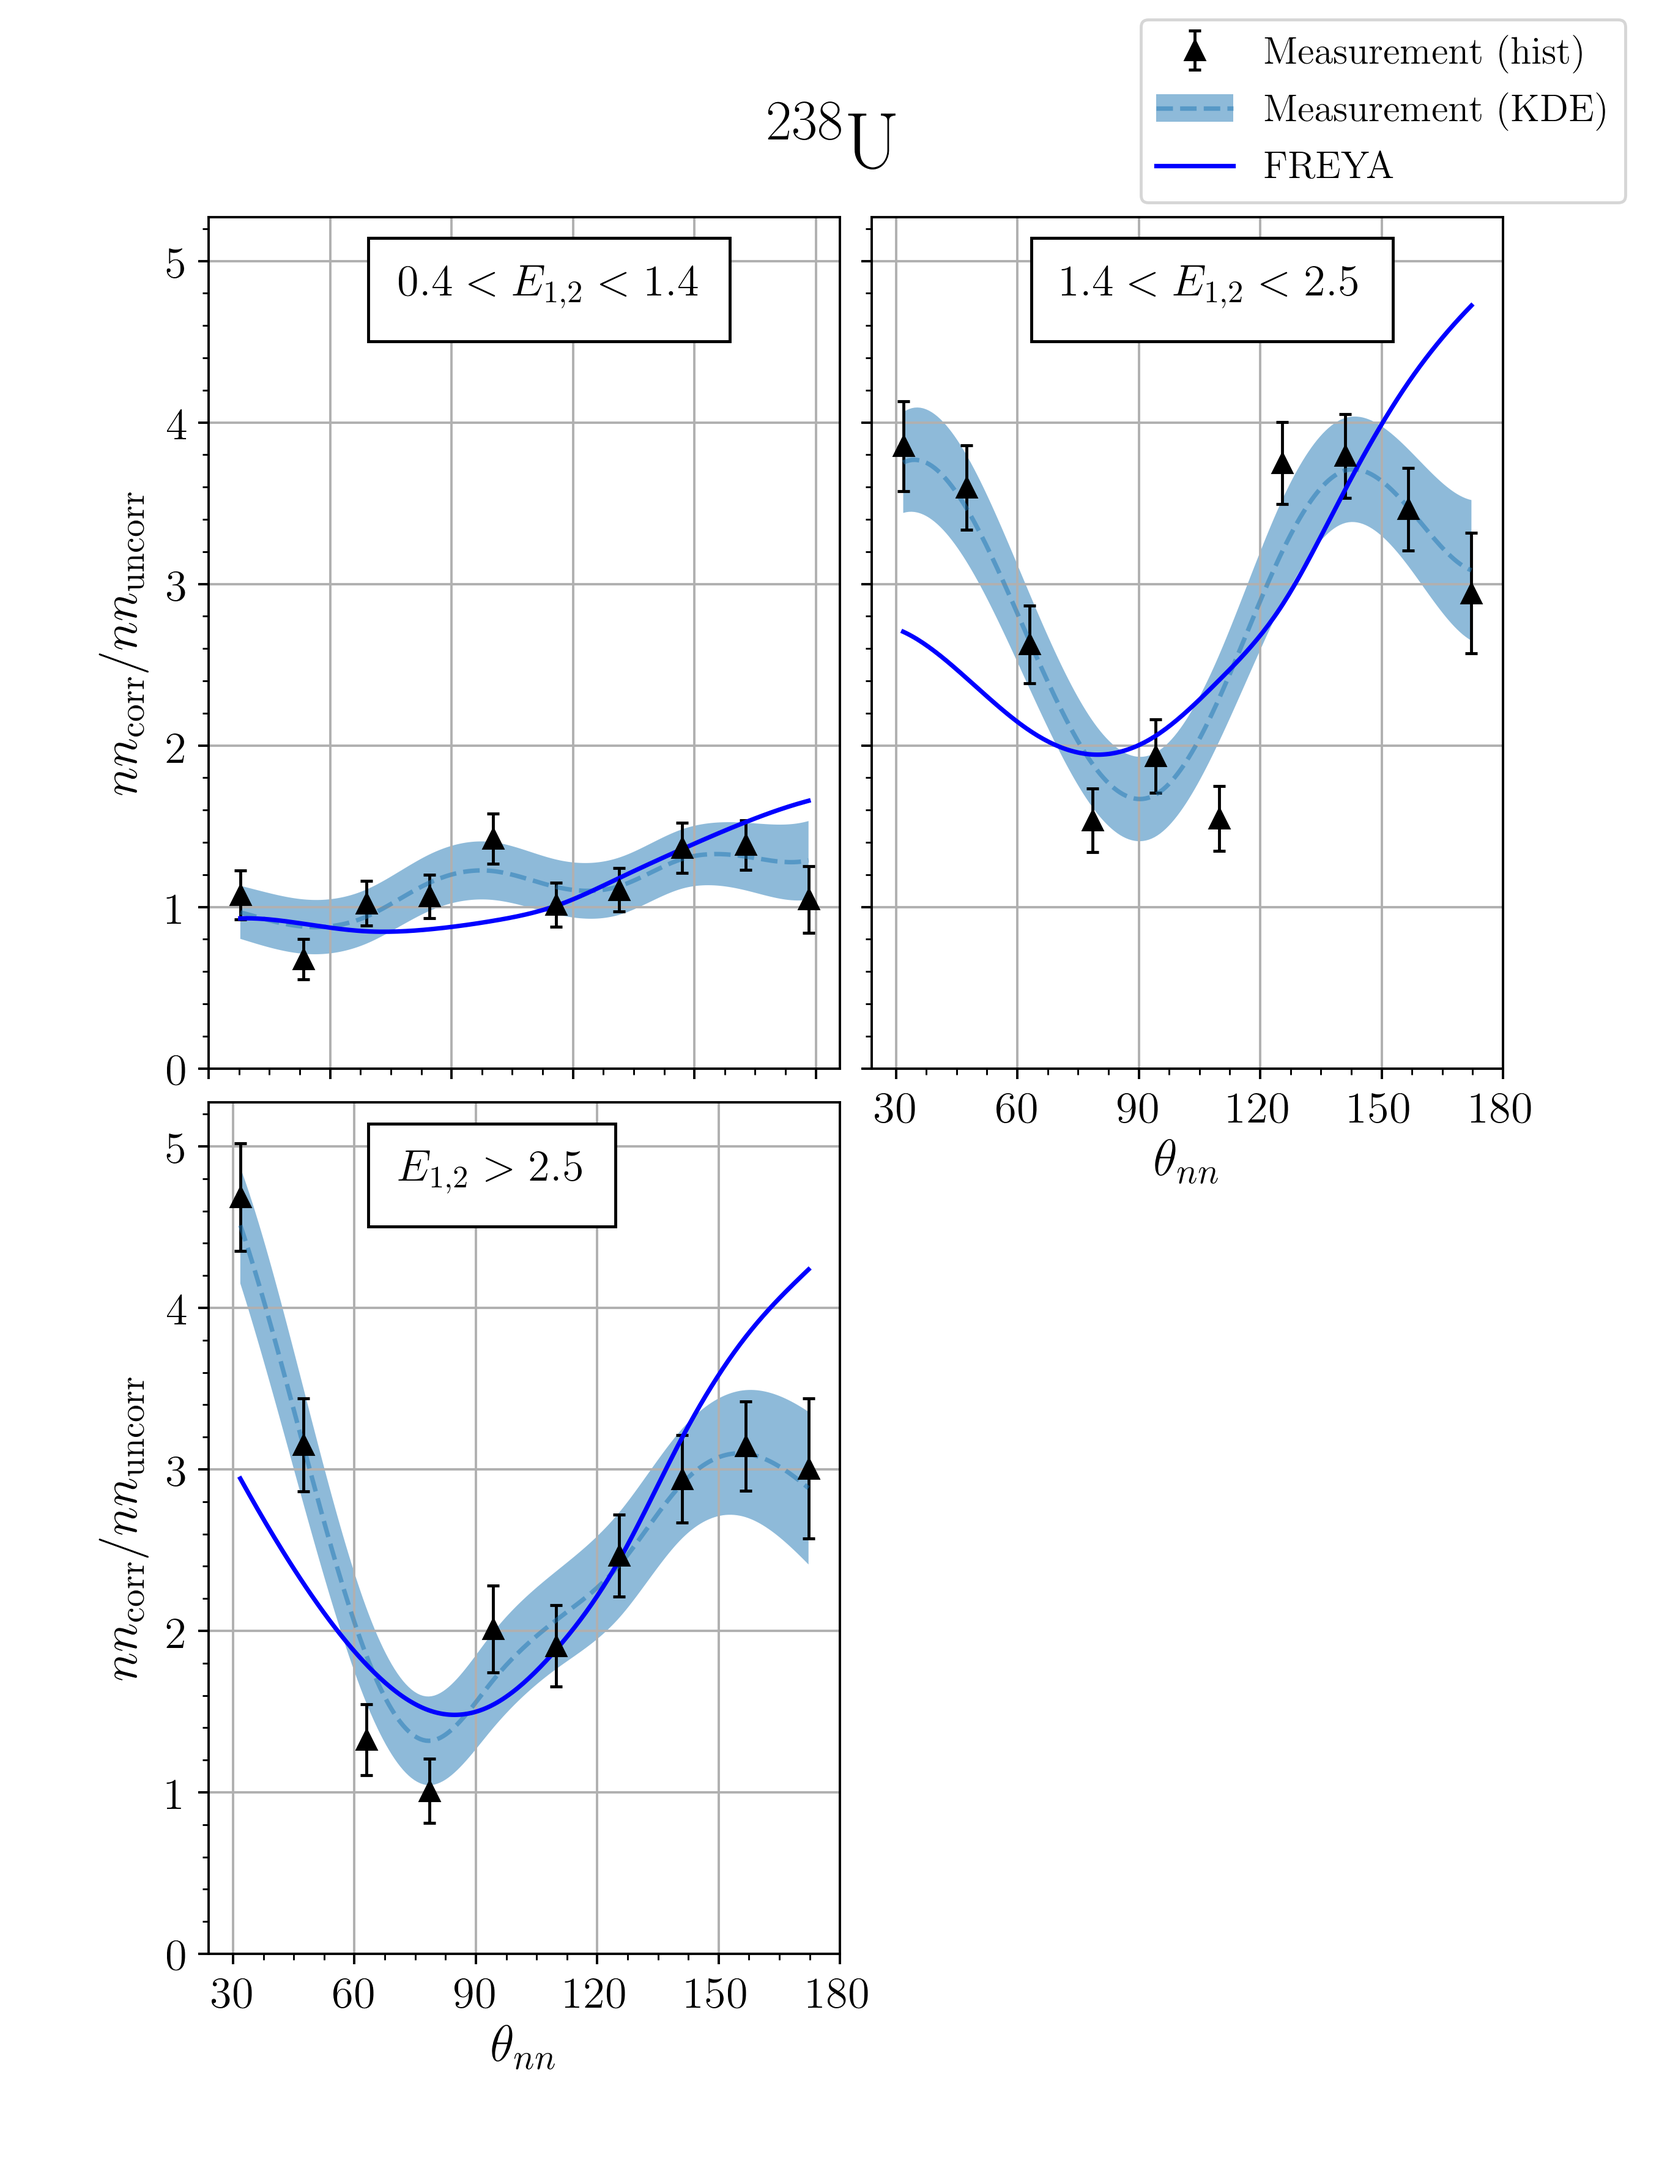
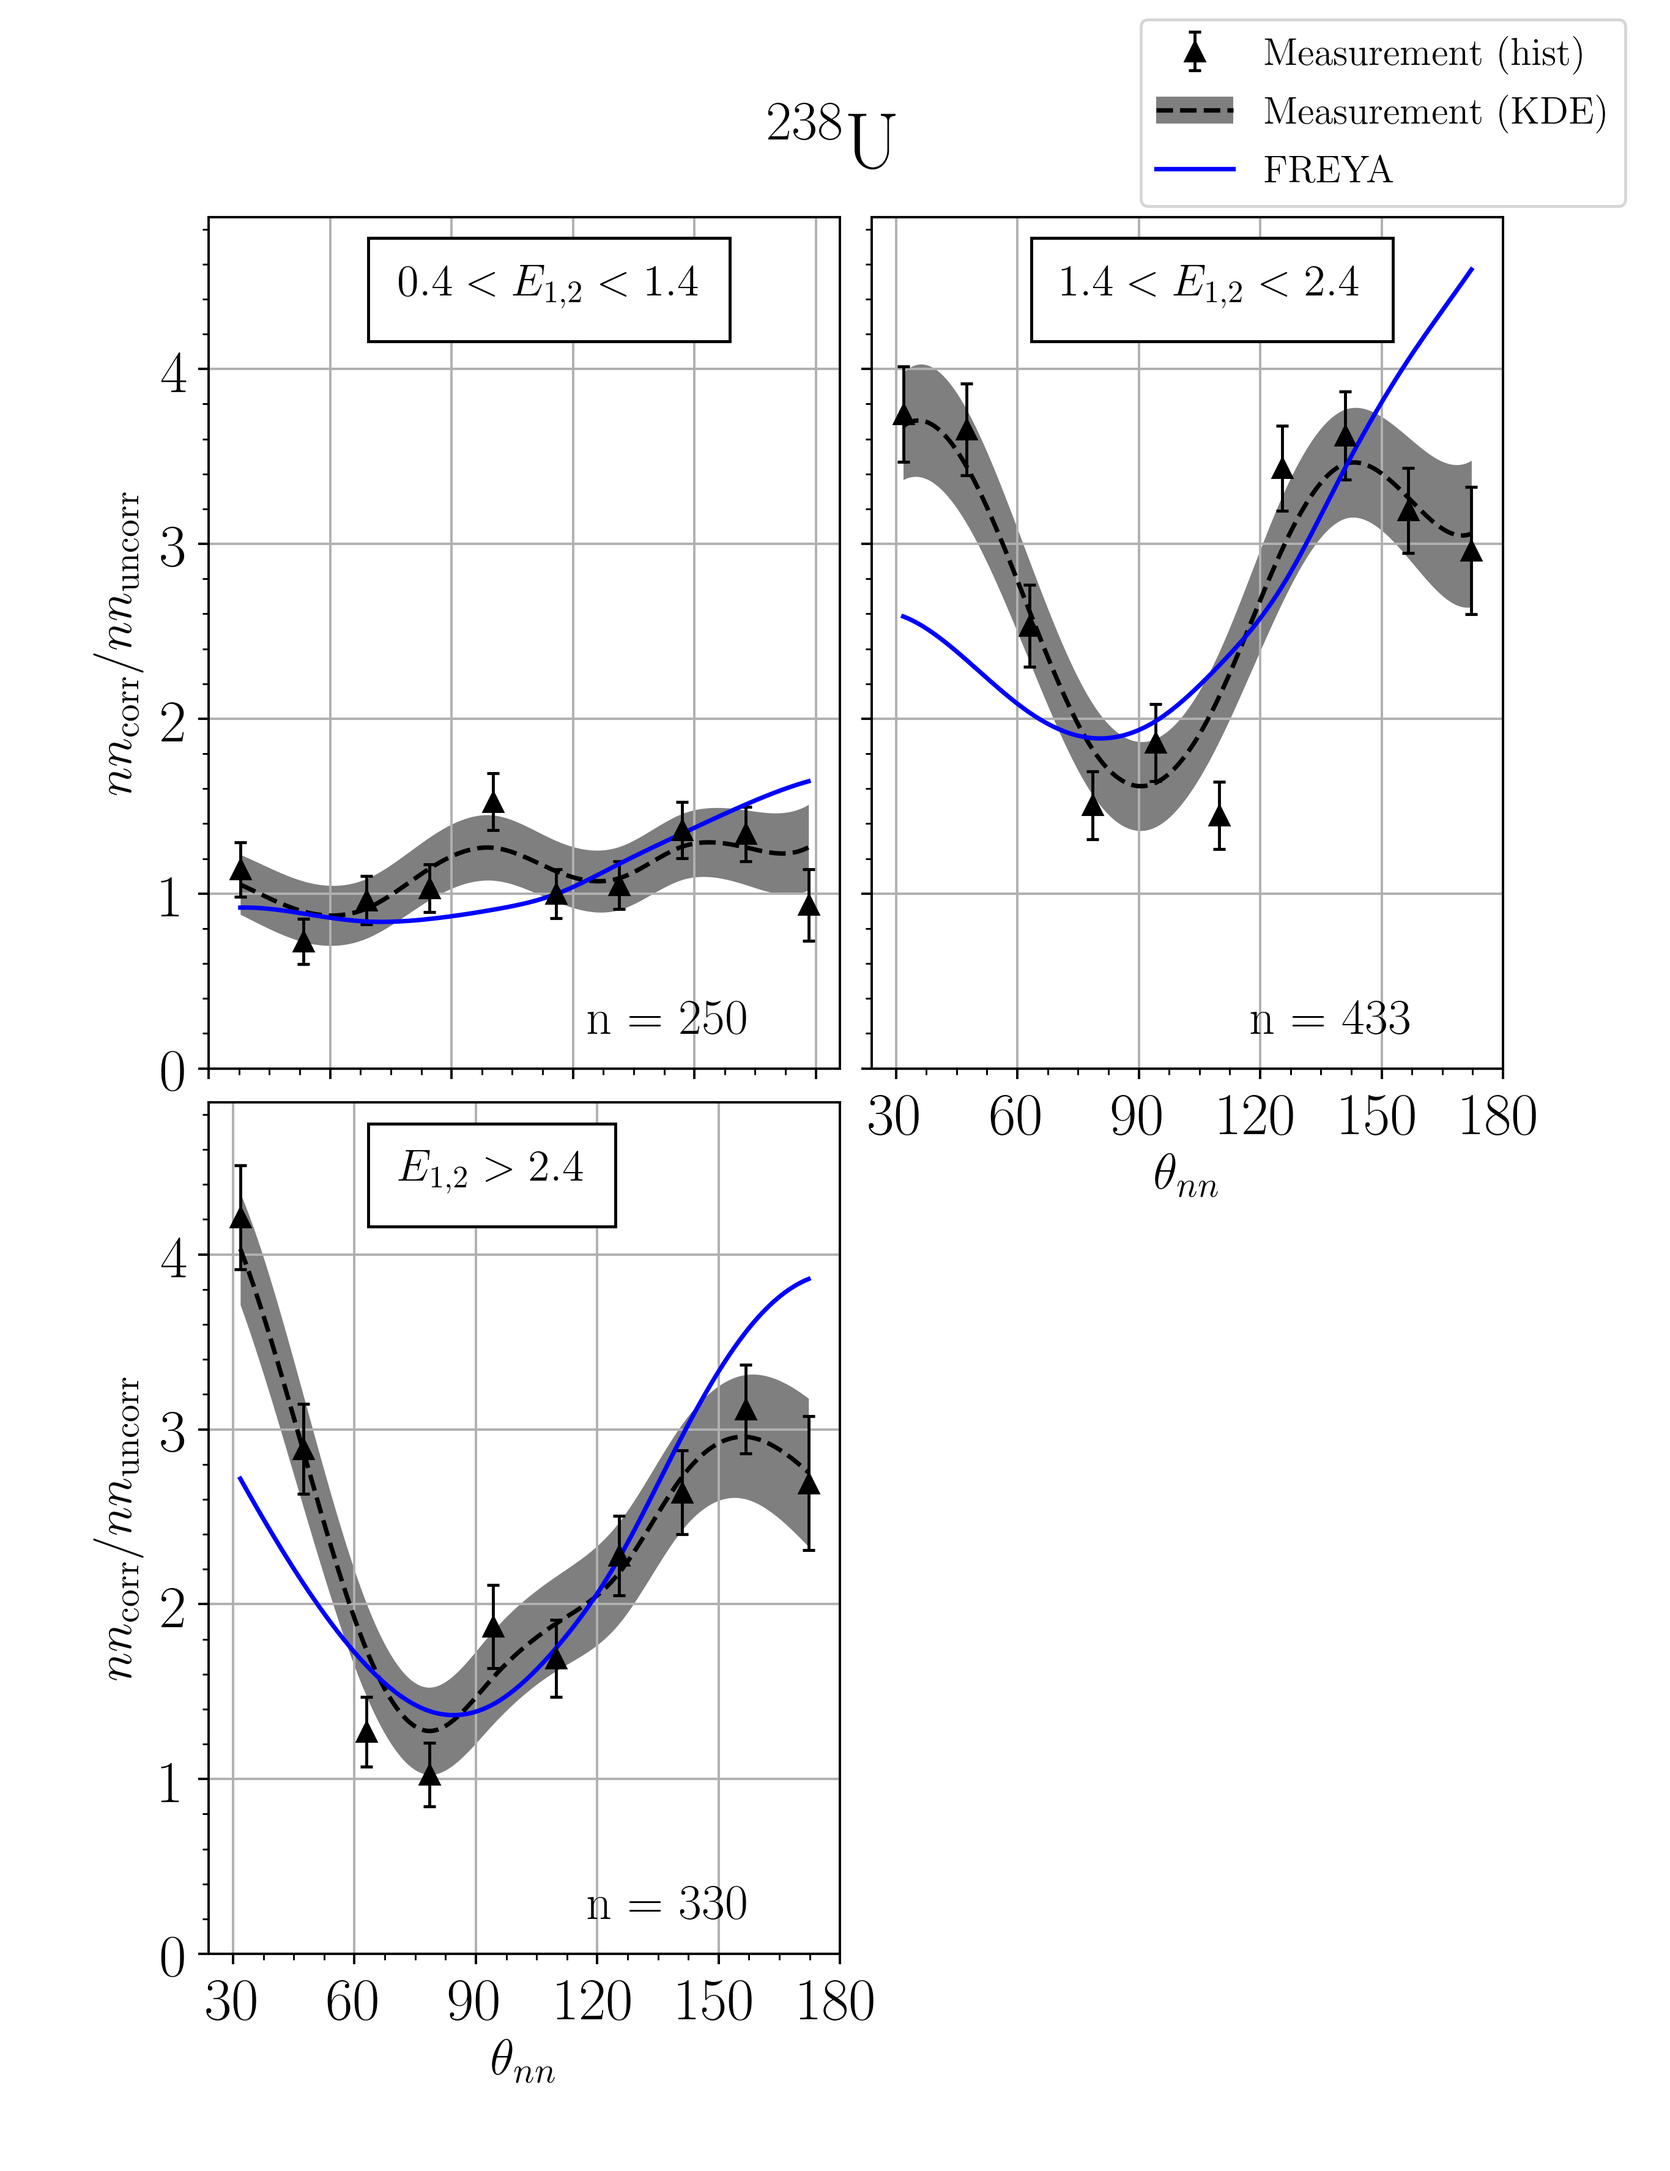
ok

diff --git a/Analysis/FinalResultFreya.py b/Analysis/FinalResultFreya.py
@@ -7,7 +7,7 @@ import mytools2 as mt2
 import mytools as mt
 import matplotlib as mpl
 import os
-mpl.use('TkAgg')
+# mpl.use('TkAgg')
 from scipy.interpolate import spline
 
 font = {'family':'DejaVu Sans',
@@ -26,18 +26,18 @@ import matplotlib.pyplot as plt
 """
 # ====================
 apply_correction = True
-cut_type =0
-max_erg = 8
+cut_type = 0
+max_erg = 10
 all_on_one_axis = False
 _cheat_ = True
 plot_FREYA = True
-target = "DU"
+target = "Cf252"
 draw_w_o_correction = True
 save_figure = True
 KDE = 1
 min_bin = 24
 if target == "DU":
-    binwidths = {0: 15,
+    binwidths = {0: 18,
                  1: 15,
                  2: 18,
                  3: 15}[cut_type]
@@ -90,11 +90,12 @@ def get_cut(eneries, DP_coinc=False):
         return mt.cut_rangeAND([E1,E2],"0.5*({0}erg[0] + {0}erg[1])".format(_s_))
 
     elif cut_type == 0:
-        assert isinstance(eneries, (float, int))
+        assert isinstance(eneries, (float, int)), eneries
+        eneries = round(eneries, 4)
         return "{1}erg[0]>{0} && {1}erg[1]>{0}".format(eneries,_s_)
 
     elif cut_type == 2:
-        E1, E2 = tuple(eneries)
+        E1, E2 = tuple(map(lambda x:round(x,4),eneries))
         return mt.cut_rangeAND([E1, E2], "{0}erg[0]".format(_s_),"{0}erg[1]".format(_s_))
     elif cut_type == 3:
         E = eneries
@@ -150,7 +151,9 @@ def get_histos(target):
                 erg_bins = list(zip(erg_bins[:-1], erg_bins[1:]))
             else:
                 erg_bins = erg_bins[:-1]
+
         else:
+            print erg_bins, "fuck fucmk fuck", n_erg_bins
             erg_bins = [[0.4,10]]
 
     if axs is None:
@@ -174,10 +177,12 @@ def get_histos(target):
         cut_SP = get_cut(energies)
         cut_DP_coinc = get_cut(energies, True)
 
+
         if apply_correction:
-            cut_DP = "(DP_weight)*{cut}".format(cut=cut_SP)
+            cut_DP = "(DP_weight)*({cut})".format(cut=cut_SP)
         else:
             cut_DP = cut_SP
+
 
         histSP = TH1F(min_bin,180,nbinss=nbins)
         histDP = TH1F(min_bin,180,nbinss=nbins)
@@ -248,7 +253,7 @@ def get_histos(target):
             else:
                 title = "${0:.1f} <\overline{{E}} < {1:.1f}$".format(*energies)
         elif cut_type == 0:
-            title = r"$E_{{\mathrm{{thresh}} }}={:.1f}$ MeV".format(energies)
+            title = r"$E_{{1,2}}={:.1f}$ MeV".format(energies)
         elif cut_type == 2:
             if index == len(erg_bins) - 1:
                 title = "$E_{{1,2}}>{0:.1f}$".format(energies[0])
@@ -257,11 +262,14 @@ def get_histos(target):
         elif cut_type == 3:
             title = "$abs(E_{{1}}-E_{{2}})> {0:.1f}$".format(energies)
 
+        n_events = None
         if not is_freya:
             if "252" in target:
-                print("n_events for cut {0} : {1}".format(title, int(n_pulsesSP*n_coinc)))
+                n_events = int(n_pulsesSP*n_coinc)
+                print("n_events for cut {0} : {1}".format(title, n_events))
             else:
-                print("n_events for cut {0} : {1}".format(title, int(n_pulsesSP*(n_coinc-0.5*n_acc))))
+                n_events = int(n_pulsesSP*(n_coinc-0.5*n_acc))
+                print("n_events for cut {0} : {1}".format(title, n_events))
 
             x = histSP.bincenters[0]
             y = histSP.binvalues
@@ -270,26 +278,32 @@ def get_histos(target):
                         linewidth=0, elinewidth=1., capsize=2,
 
                         linestyle="dashed" if is_freya else "solid",
-                        color='black' if not is_freya else "blue",
+                        color='black' ,
                         marker="^" if not is_freya else None) #drawstyle='steps-mid' if not is_freya else "default",
             line_measurement = _line_
             if KDE:
                 x_KDE = np.linspace(histSP_KDE.bincenters[0][0], histSP_KDE.bincenters[0][-1], 200)
                 y_KDE = spline(histSP_KDE.bincenters[0], histSP_KDE.binvalues, x_KDE)
                 erry_KDE = spline(histSP_KDE.bincenters[0], histSP_KDE.binerrors, x_KDE)
-                _line_ = ax.fill_between(x_KDE, y_KDE + erry_KDE, y_KDE - erry_KDE, alpha=0.5, linestyle='-')
-                _line2_ = ax.plot(x_KDE, y_KDE, alpha=0.5, linestyle='--')[0]
+                _line_ = ax.fill_between(x_KDE, y_KDE + erry_KDE, y_KDE - erry_KDE, alpha=0.5, linewidth=0, linestyle='-', color="black")
+                _line2_ = ax.plot(x_KDE, y_KDE, alpha=1, linestyle='--', color="black")[0]
                 line_KDE = (_line_, _line2_)
 
             if cut_type == 3:
                 pos = 0.05, 0.9
             else:
                 pos = (0.3, 0.9)
-            ax.text(pos[0],pos[1], title, transform=ax.transAxes, bbox={'facecolor': 'white', 'alpha': 1, 'pad': 10},
+            ax.text(pos[0], pos[1], title, transform=ax.transAxes, bbox={'facecolor': 'white', 'alpha': 1, 'pad': 10},
                     size=12 if cut_type == 3 else 15)
 
+            ax.text(0.6, 0.04, "n = {}".format(n_events), transform=ax.transAxes, weight="bold")
+                    # , transform=ax.transAxes, bbox={'facecolor': 'white', 'alpha': 1, 'pad': 10},
+                    # size=12 if cut_type == 3 else 15)
+
+
+
         else:
-            x_freya =np.linspace(histSP.bincenters[0][0],histSP.bincenters[0][-1], 200)
+            x_freya = np.linspace(histSP.bincenters[0][0],histSP.bincenters[0][-1], 200)
             y_freya = spline(histSP.bincenters[0], histSP.binvalues, x_freya)
             _line_ = ax.plot(x_freya, y_freya,
                                  linestyle="solid",
@@ -310,7 +324,7 @@ def get_histos(target):
             ax.set_ylabel(r"$nn_{\mathrm{corr}}/nn_{\mathrm{uncorr}}$")
 
         if not all_on_one_axis:
-            ax.tick_params(labelsize=15)
+            ax.tick_params(labelsize=20)
 
         if all_on_one_axis:break # only one axis in this case
 

diff --git a/plots/Official/FinalDUResultPlot.py b/plots/Official/FinalDUResultPlot.py
@@ -24,7 +24,7 @@ mpl.rc('text', usetex=True)
 
 f = open('/Users/jeffreyburggraf/PycharmProjects/TwoNeutronCorrelations/plots/Official/FinalDUResultData.pickle', 'rb')
 
-data_dict = pickle.load(f, encoding='latin1')
+data_dict = pickle.load(f) # encoding='latin1')
 
 def Legendre(x, p0, p1, p2):
     ps = [p0,p1,p2]
@@ -221,8 +221,8 @@ if combine:
 # plt.xlabel('$\overline{E}$')
 # plt.ylabel('counts')
 # plt.legend()
-if not combine:
-    mpl.rc("savefig", dpi=400)
-    fig_sub.savefig('/Users/jeffreyburggraf/PycharmProjects/2nCorrPhysRev/FinalResult(separate).png', transparent=True)
+# if not combine:
+#     mpl.rc("savefig", dpi=400)
+#     fig_sub.savefig('/Users/jeffreyburggraf/PycharmProjects/2nCorrPhysRev/FinalResult(separate).png', transparent=True)
 
 plt.show()

diff --git a/Analysis/DetErgEff/Analysis(pos).py b/Analysis/DetErgEff/Analysis(pos).py
@@ -59,7 +59,6 @@ for det in dets:
     means.append(np.mean(hist.binvalues))
     histos.append(hist)
 
-
     if _max is None:
         _max = max(hist.binvalues)
         _min = min(hist.binvalues)

diff --git a/plots/Official/Cross_talk.py b/plots/Official/Cross_talk.py
@@ -68,6 +68,6 @@ plt.legend()
 plt.subplots_adjust(bottom=0.13)
 
 plt.xlabel(r'$\theta{nn}$')
-plt.ylabel(r'counts')
+plt.ylabel(r'counts per bin')
 plt.axes().set_axisbelow(True)
 plt.show()
